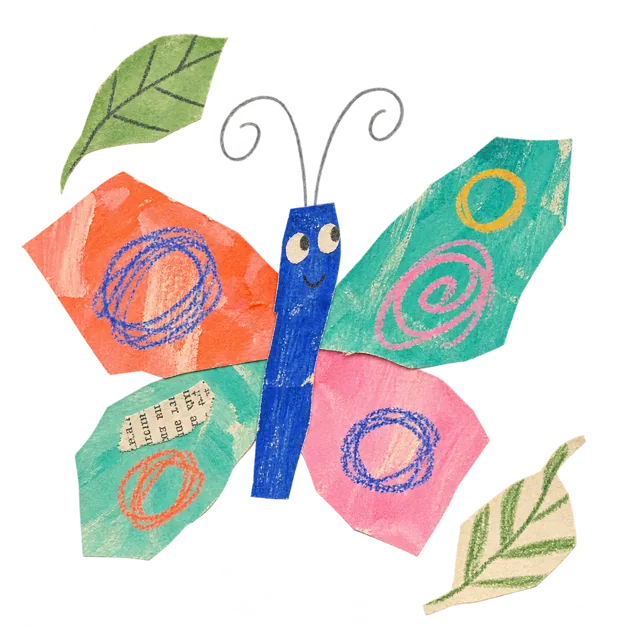
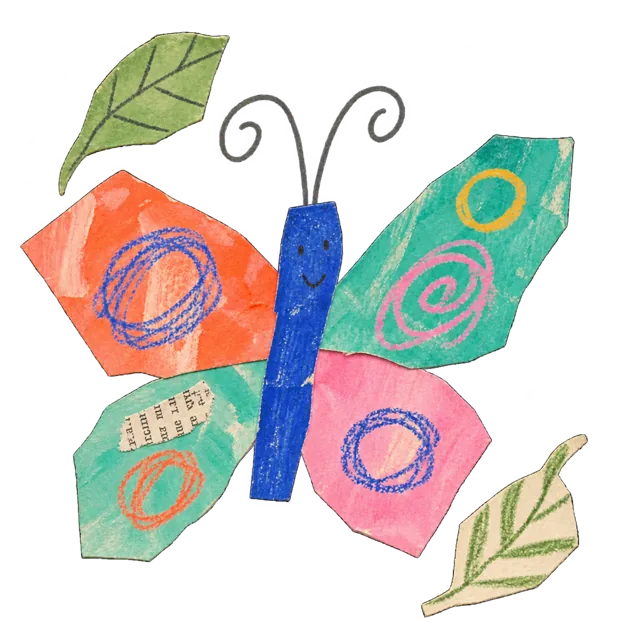
Refine the butterfly and add seven matching activity thumbnails

diff --git a/src/App.jsx b/src/App.jsx
@@ -8,6 +8,7 @@ import {
 import { eligibleSession } from './eligibility.js'
 import { sessionTiming, napFriendly, napClash, timeLabel } from './timing.js'
 import HeaderCollage from './HeaderCollage.jsx'
+import { activityArtwork } from './activityArtwork.js'
 import initial from './initialData.json'
 import initialHistory from './initialHistory.json'
 import initialDiscoveries from './initialDiscoveries.json'
@@ -55,9 +56,10 @@ function calendarFile(e){
 }
 function Img({e}){
  const [failed,setFailed]=useState(false)
- const artKind=e.category==='Bibliotecas'?'stories':e.category==='Música'?'music':e.category==='Sensorial'?'making':'explore'
+ useEffect(()=>setFailed(false),[e.imageUrl])
+ const artKind=activityArtwork(e)
  return <div className={`art art-${artKind}`}>
-   {e.imageUrl&&!failed&&isSafeUrl(e.imageUrl)?<img src={e.imageUrl} loading="lazy" alt={`Fotografia da atividade ${e.title}`} onError={()=>setFailed(true)}/>:<img className="category-art" src={`${import.meta.env.BASE_URL}illustrations/${artKind}.svg`} alt=""/>}
+   {e.imageUrl&&!failed&&isSafeUrl(e.imageUrl)?<img src={e.imageUrl} loading="lazy" alt={`Imagem publicada de ${e.title}`} onError={()=>setFailed(true)}/>:<img className="category-art" src={`${import.meta.env.BASE_URL}illustrations/activity-${artKind}.webp`} alt=""/>}
    <span className="art-date"><strong>{cleanDate(e.date).getUTCDate()}</strong><span>{monthDay(e.date).split(' ')[1]}</span></span>
  </div>
 }

diff --git a/src/styles.css b/src/styles.css
@@ -43,3 +43,7 @@ h1,h2,h3,.brand,.stats strong,.footer-left strong{font-family:Weekend,'Mali',cur
 /* Four original paper collages, changed on request rather than on a timer. */
 .hero-collage{pointer-events:auto;transform:none}.hero-collage-art{aspect-ratio:1;transform:rotate(3deg);pointer-events:none}.hero-collage-art img{width:100%;height:100%;object-fit:contain}.collage-shuffle{display:flex;align-items:center;justify-content:center;gap:7px;min-height:40px;margin:7px auto 0;padding:9px 13px;border:1px solid #18234b66;border-radius:100px;background:transparent;color:#18234b;font-size:11px;font-weight:600}.collage-shuffle:hover{background:#fffdfa55;border-color:#18234b}.collage-announcement{position:absolute;width:1px;height:1px;padding:0;margin:-1px;overflow:hidden;clip:rect(0,0,0,0);white-space:nowrap;border:0}
 @media(max-width:680px){.hero-collage{width:170px;margin-top:15px}.collage-shuffle{font-size:11px;min-height:44px;padding:9px 11px}}
+
+/* Matching paper-and-crayon artwork for the activity themes. */
+.art-art,.art-sensory{background:#f9e4e8}.art-music{background:#d4e8e6}.art-sports,.art-nature{background:#e0e7d4}.art-festival{background:#ffe0d1}.art-stories{background:#e0e6f6}.art img.category-art{object-fit:contain;padding:15px 29px 13px}.art-date{z-index:1}
+@media(max-width:680px){.art img.category-art{padding:15px 25px 13px}}

diff --git a/src/activityArtwork.js b/src/activityArtwork.js
@@ -1,0 +1,19 @@
+export const artworkKinds=['art','music','sports','festival','stories','sensory','nature']
+const fold=value=>String(value||'').normalize('NFD').replace(/[\u0300-\u036f]/g,'').toLowerCase()
+const themes=[
+  ['sports',/\b(?:yoga|natacao|ginastica|desporto|desportos|sports?|danca)\b/],
+  ['festival',/\b(?:festival|festivais|feira|carnaval|festa|festas|espetaculo|espetaculos|teatro|circo|events?)\b/],
+  ['music',/\b(?:musica|musical|musicais|concerto|concertos|cancoes|som|sons|opera|music)\b/],
+  ['art',/\b(?:arte|artes|art|pintura|pinturas|pintar|ceramica|ceramicas|desenho|colagem|azulejo|barro|artesanato|exposicao)\b/],
+  ['sensory',/\b(?:sensorial|sensory|texturas|sentidos|luzes|exploracao)\b/],
+  ['stories',/\b(?:historias|historia|contos|conto|livros|livro|leitura|bibliotecas?|stories|books?)\b/],
+  ['nature',/\b(?:natureza|nature|outdoors?|horta|jardim|floresta|passeio)\b|\bar livre\b/],
+]
+export function activityArtwork(event){
+  // Prefer explicit activity topics over a venue-based category such as Biblioteca.
+  for(const text of [fold(event.title),fold(event.category)]){
+    const found=themes.find(([,pattern])=>pattern.test(text))
+    if(found)return found[0]
+  }
+  return 'festival'
+}

diff --git a/src/HeaderCollage.jsx b/src/HeaderCollage.jsx
@@ -11,7 +11,7 @@ export default function HeaderCollage(){
   useEffect(()=>{try{sessionStorage.setItem('pfds-header-collage',String(selected))}catch{}},[selected])
   const collage=collages[selected]
   return <div className="hero-collage">
-    <div className="hero-collage-art"><img src={`${import.meta.env.BASE_URL}illustrations/${collage.file}?v=flat-paper-1`} alt="" width="640" height="640" decoding="async"/></div>
+    <div className="hero-collage-art"><img src={`${import.meta.env.BASE_URL}illustrations/${collage.file}?v=${collage.version||'flat-paper-1'}`} alt="" width="640" height="640" decoding="async"/></div>
     <button className="collage-shuffle" type="button" aria-label="Mudar colagem do cabeçalho" onClick={()=>setSelected(current=>nextCollage(current))}><RefreshCw size={14} aria-hidden="true"/> Mudar colagem</button>
     <span className="collage-announcement" role="status" aria-live="polite">Colagem: {collage.name}</span>
   </div>

diff --git a/src/collages.js b/src/collages.js
@@ -1,7 +1,7 @@
 export const collages = [
   {id:'bird',name:'Passarinho',file:'header-paper-bird.webp'},
   {id:'city',name:'Casas',file:'header-paper-city.webp'},
-  {id:'butterfly',name:'Borboleta',file:'header-paper-butterfly.webp'},
+  {id:'butterfly',name:'Borboleta',file:'header-paper-butterfly.webp',version:'dot-eyes-1'},
   {id:'music',name:'Música',file:'header-paper-music.webp'},
 ]
 
